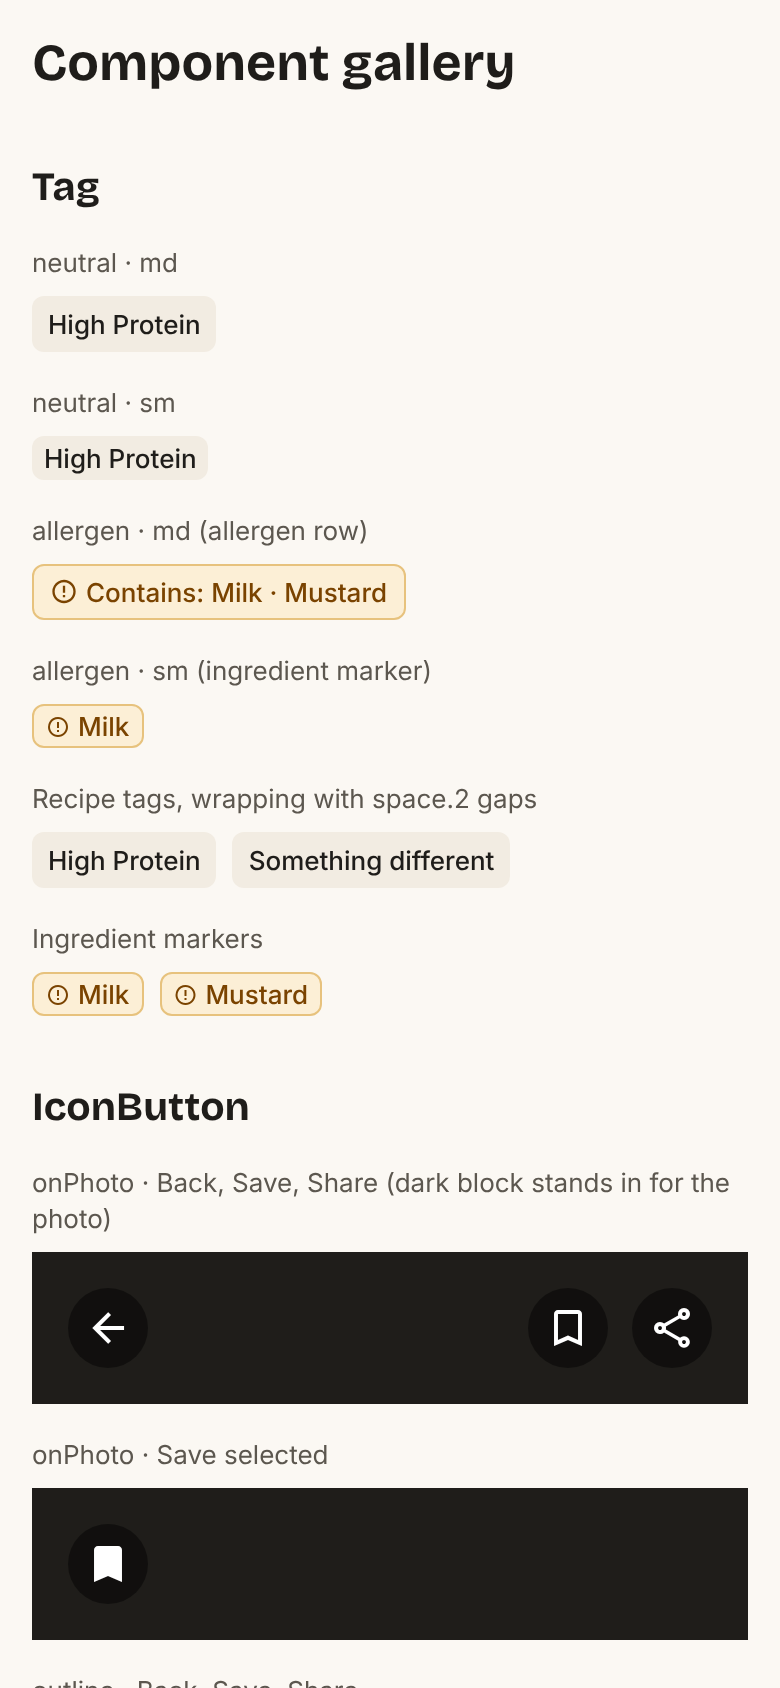
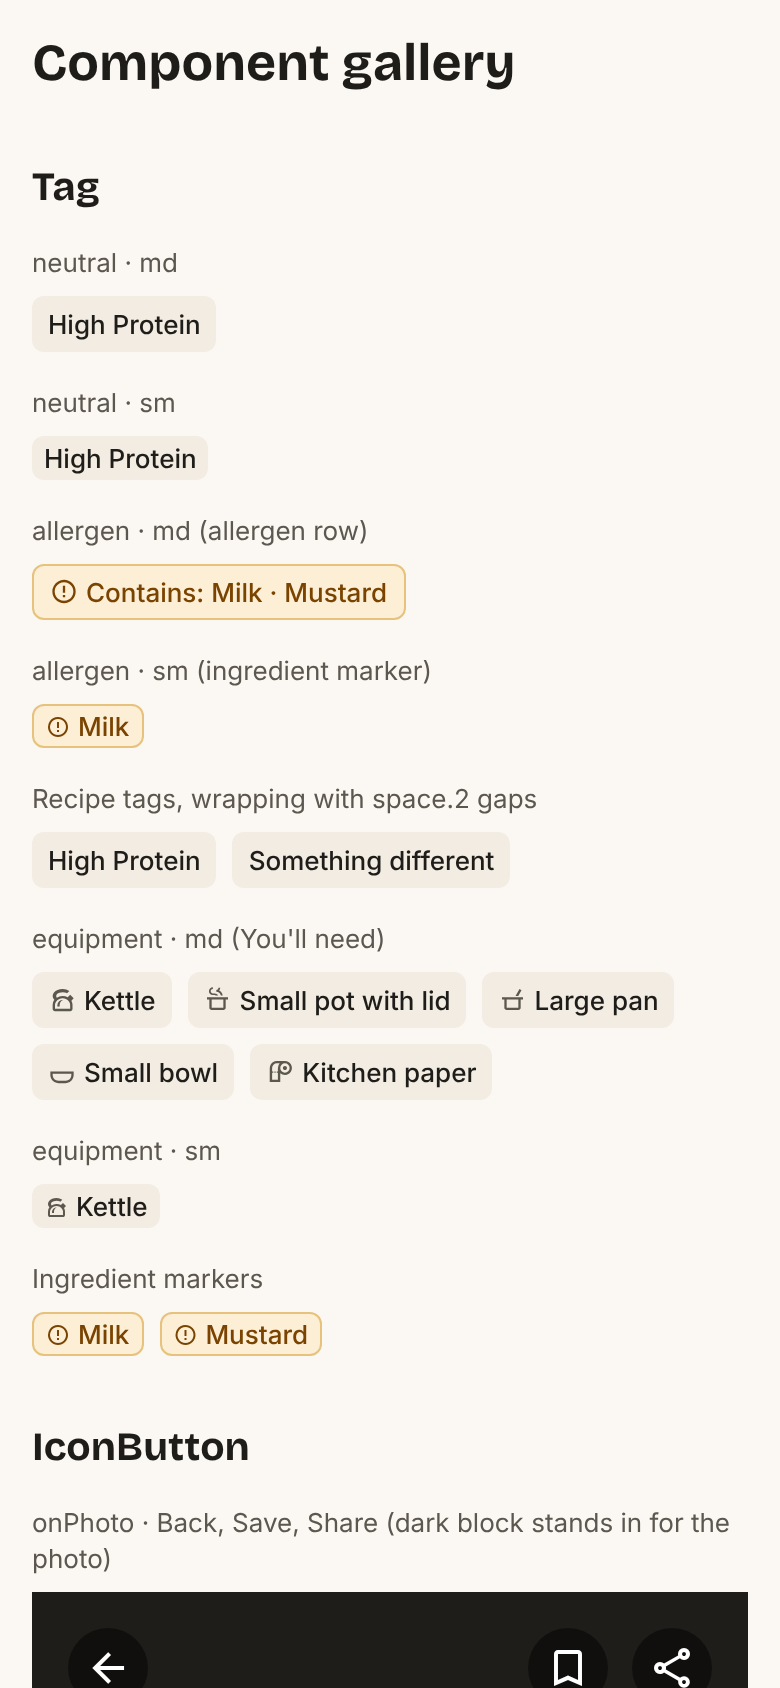
Show You'll need as equipment chips (option A)
New Tag variant 'equipment' (subtle fill, per-item icon, Tag md size)
in a wrapping row: 138 pt instead of 342 pt. Equipment icon names moved
to src/theme/icons.ts; Tag.md and IngredientRow.md specs, decisions and
screenshots updated.

Claude-Session: https://claude.ai/code/session_01Nt62VDTQhttFTqkyUPVqAi

diff --git a/src/components/Tag.tsx b/src/components/Tag.tsx
@@ -1,8 +1,9 @@
 import { StyleSheet, Text, View } from 'react-native';
 import { MaterialCommunityIcons } from '@expo/vector-icons';
 import { color, radius, size, space, type } from '../theme/tokens';
+import { EQUIPMENT_ICONS, type EquipmentIcon } from '../theme/icons';
 
-export type TagVariant = 'neutral' | 'allergen';
+export type TagVariant = 'neutral' | 'allergen' | 'equipment';
 export type TagSize = 'md' | 'sm';
 
 export type TagProps = {
@@ -11,6 +12,8 @@ export type TagProps = {
   variant?: TagVariant;
   /** `sm` is for inline use inside an IngredientRow. */
   size?: TagSize;
+  /** Only for `equipment`: which line icon to show. */
+  icon?: EquipmentIcon;
   /**
    * What screen readers say. Defaults to the label; an allergen row label
    * "Contains: Milk · Mustard" is read as "Contains allergens: Milk, Mustard".
@@ -33,11 +36,18 @@ function defaultAccessibilityLabel(label: string, variant: TagVariant): string {
 }
 
 /**
- * A small, non-interactive label: a recipe tag ("High Protein") or an allergen
- * flag ("Contains: Milk · Mustard"). Tags inform; they are not buttons.
+ * A small, non-interactive label: a recipe tag ("High Protein"), an allergen
+ * flag ("Contains: Milk · Mustard") or a piece of equipment ("Kettle"). Tags inform; they are not buttons.
  */
-export function Tag({ label, variant = 'neutral', size: tagSize = 'md', accessibilityLabel }: TagProps) {
+export function Tag({
+  label,
+  variant = 'neutral',
+  size: tagSize = 'md',
+  icon = 'pot',
+  accessibilityLabel,
+}: TagProps) {
   const isAllergen = variant === 'allergen';
+  const iconSize = tagSize === 'md' ? size.icon.tagMd : size.icon.tagSm;
 
   return (
     <View
@@ -46,13 +56,15 @@ export function Tag({ label, variant = 'neutral', size: tagSize = 'md', accessib
       accessibilityLabel={accessibilityLabel ?? defaultAccessibilityLabel(label, variant)}
       style={[styles.base, sizeStyles[tagSize], variantStyles[variant]]}
     >
+      {/* Icons are decorative: the text already says it. */}
       {isAllergen && (
         <View accessibilityElementsHidden importantForAccessibility="no-hide-descendants">
-          <MaterialCommunityIcons
-            name="alert-circle-outline"
-            size={tagSize === 'md' ? size.icon.tagMd : size.icon.tagSm}
-            color={color.allergen.fg}
-          />
+          <MaterialCommunityIcons name="alert-circle-outline" size={iconSize} color={color.allergen.fg} />
+        </View>
+      )}
+      {variant === 'equipment' && (
+        <View accessibilityElementsHidden importantForAccessibility="no-hide-descendants">
+          <MaterialCommunityIcons name={EQUIPMENT_ICONS[icon]} size={iconSize} color={color.text.secondary} />
         </View>
       )}
       <Text style={[styles.label, { color: isAllergen ? color.allergen.fg : color.text.primary }]}>
@@ -85,6 +97,7 @@ const sizeStyles = StyleSheet.create({
 
 const variantStyles = StyleSheet.create({
   neutral: { backgroundColor: color.bg.subtle },
+  equipment: { backgroundColor: color.bg.subtle },
   allergen: {
     backgroundColor: color.allergen.bg,
     borderWidth: 1,

diff --git a/app/gallery.tsx b/app/gallery.tsx
@@ -8,6 +8,7 @@ import { SectionHeader } from '../src/components/SectionHeader';
 import { ServingStepper } from '../src/components/ServingStepper';
 import { StickyCTA } from '../src/components/StickyCTA';
 import { Tag } from '../src/components/Tag';
+import { recipe } from '../src/data/recipe';
 import { color, space, type } from '../src/theme/tokens';
 
 const noop = () => {};
@@ -54,7 +55,17 @@ export default function Gallery() {
             <Tag label="Something different" />
           </View>
         </Example>
-        <Example name="Ingredient markers">
+        <Example name="equipment · md (You'll need)">
+          <View style={{ flexDirection: 'row', flexWrap: 'wrap', gap: space[2] }}>
+            {recipe.equipment.map((item) => (
+              <Tag key={item.name} variant="equipment" label={item.name} icon={item.icon} />
+            ))}
+          </View>
+        </Example>
+        <Example name="equipment · sm">
+          <Tag variant="equipment" label="Kettle" icon="kettle" size="sm" />
+        </Example>
+                <Example name="Ingredient markers">
           <View style={{ flexDirection: 'row', flexWrap: 'wrap', gap: space[2] }}>
             <Tag label="Milk" variant="allergen" size="sm" />
             <Tag label="Mustard" variant="allergen" size="sm" />

diff --git a/src/components/IngredientRow.tsx b/src/components/IngredientRow.tsx
@@ -2,19 +2,11 @@ import { Image, StyleSheet, Text, View, type ImageSourcePropType } from 'react-n
 import { MaterialCommunityIcons } from '@expo/vector-icons';
 import { color, radius, size, space, type } from '../theme/tokens';
 import { Tag } from './Tag';
+import { EQUIPMENT_ICONS, type EquipmentIcon } from '../theme/icons';
+
+export type { EquipmentIcon };
 
 export type IngredientRowVariant = 'box' | 'pantry' | 'equipment';
-export type EquipmentIcon = 'kettle' | 'pot' | 'pan' | 'bowl' | 'paper';
-
-// One icon set only (CLAUDE.md): MaterialCommunityIcons, outline style.
-// The set has no frying pan; pot-mix-outline (shallow pan with spatula) is the closest.
-const EQUIPMENT_ICONS = {
-  kettle: 'kettle-outline',
-  pot: 'pot-steam-outline',
-  pan: 'pot-mix-outline',
-  bowl: 'bowl-outline',
-  paper: 'paper-roll-outline',
-} as const;
 
 export type IngredientRowProps = {
   /** From docs/content.md. */

diff --git a/app/index.tsx b/app/index.tsx
@@ -135,9 +135,9 @@ export default function RecipeScreen() {
 
           {/* You'll need */}
           <SectionHeader title="You'll need" />
-          <View style={{ gap: space[3] }}>
+          <View style={{ flexDirection: 'row', flexWrap: 'wrap', gap: space[2] }}>
             {recipe.equipment.map((item) => (
-              <IngredientRow key={item.name} variant="equipment" name={item.name} icon={item.icon} />
+              <Tag key={item.name} variant="equipment" label={item.name} icon={item.icon} />
             ))}
           </View>
 

diff --git a/src/theme/icons.ts b/src/theme/icons.ts
@@ -1,0 +1,14 @@
+/**
+ * Icon names shared by several components. One icon set only (CLAUDE.md):
+ * MaterialCommunityIcons, outline style.
+ */
+export type EquipmentIcon = 'kettle' | 'pot' | 'pan' | 'bowl' | 'paper';
+
+// The set has no frying pan; pot-mix-outline (shallow pan with spatula) is the closest.
+export const EQUIPMENT_ICONS = {
+  kettle: 'kettle-outline',
+  pot: 'pot-steam-outline',
+  pan: 'pot-mix-outline',
+  bowl: 'bowl-outline',
+  paper: 'paper-roll-outline',
+} as const satisfies Record<EquipmentIcon, string>;

diff --git a/src/data/recipe.ts b/src/data/recipe.ts
@@ -20,7 +20,7 @@ export type Ingredient = {
   allergen?: string;
 };
 
-import type { EquipmentIcon } from '../components/IngredientRow';
+import type { EquipmentIcon } from '../theme/icons';
 
 export type Equipment = { name: string; icon: EquipmentIcon };
 

diff --git a/design-system/components/Tag.md b/design-system/components/Tag.md
@@ -1,8 +1,8 @@
 # Tag
 
 ## Purpose
-A small, non-interactive label that describes the recipe ("High Protein") or flags an allergen
-("Contains: Milk · Mustard"). Tags inform; they are not buttons.
+A small, non-interactive label that describes the recipe ("High Protein"), flags an allergen
+("Contains: Milk · Mustard") or names a piece of equipment ("Kettle"). Tags inform; they are not buttons.
 
 ## Anatomy
 1. Container (fill, optional border)
@@ -13,13 +13,15 @@ A small, non-interactive label that describes the recipe ("High Protein") or fla
 | Prop | Type | Default | Notes |
 |---|---|---|---|
 | `label` | text | — | Required. Short: 1–3 words, or "Contains: …" for allergens. |
-| `variant` | `neutral` \| `allergen` | `neutral` | See Variants. |
+| `variant` | `neutral` \| `allergen` \| `equipment` | `neutral` | See Variants. |
 | `size` | `md` \| `sm` | `md` | `sm` is for inline use inside an IngredientRow. |
+| `icon` | `kettle` \| `pot` \| `pan` \| `bowl` \| `paper` | `pot` | Only for `equipment`. Mapping in CLAUDE.md. |
 
 ## Variants
 | Variant | Look | Use |
 |---|---|---|
 | `neutral` | `color.bg.subtle` fill, `color.text.primary` text, no icon | Recipe tags under the title. |
+| `equipment` | `color.bg.subtle` fill, `color.text.primary` text, leading equipment icon in `color.text.secondary` | The "You'll need" list, as a wrapping row of chips (added 2026-10-16, see docs/decisions.md). |
 | `allergen` | `color.allergen.bg` fill, 1 pt `color.allergen.border`, `color.allergen.fg` text, **warning icon** (leading) | The allergen row under the title ("Contains: Milk · Mustard") and the small marker on an ingredient ("Milk"). |
 
 ## Sizes
@@ -39,7 +41,8 @@ Static only (no pressed or focus state), because tags are not interactive.
 - Allergen tags never rely on colour alone: they always have the icon **and** the word "Contains"
   (row) or the allergen name (marker).
 - Screen readers read the allergen row as "Contains allergens: Milk, Mustard".
-- The icon is decorative (`accessibilityElementsHidden`) because the text already says it.
+- Icons are decorative (`accessibilityElementsHidden`) because the text already says it.
+- Equipment tags read as their name ("Kettle").
 
 ## Do
 - Keep labels short; wrap tags onto a second line with `space.2` gaps.

diff --git a/docs/decisions.md b/docs/decisions.md
@@ -29,3 +29,5 @@ Decisions that aren't in the specs, with the reason. Newest at the bottom.
 | 2026-10-16 | Hero photo height `size.image.hero` 280 → 200. | Gets the ingredients closer to the first screen (analysis friction point #1). |
 | 2026-10-16 | "About this recipe" moved from above Ingredients to below "You'll need" (changes the CLAUDE.md screen order). | The description is the least-used block while cooking; above Ingredients it pushed them down and left an uneven 48 pt gap. |
 | 2026-10-16 | Each equipment item has its own icon: kettle `kettle-outline`, pot `pot-steam-outline`, pan `pot-mix-outline`, bowl `bowl-outline`, kitchen paper `paper-roll-outline`. `IngredientRow` gets an `icon` prop for the `equipment` variant; CLAUDE.md icon mapping updated. | Five identical pots were hard to scan; people look for the specific item. The set has no frying pan (its `pan` icon is the move gesture), so the pan uses `pot-mix-outline`, a shallow pan with a spatula. |
+| 2026-10-16 | "You'll need" shows equipment as small chips: new `Tag` variant `equipment` (subtle fill, equipment icon in `color.text.secondary`, Tag md size) in a wrapping row with `space.2` gaps. Tag.md updated. The `IngredientRow` `equipment` variant stays but the screen no longer uses it. | Chosen from a mockup (option A): 138 pt instead of 342 pt for the same five items. Trade-off: 13 pt text is smaller than the ingredient names. |
+| 2026-10-16 | Equipment icon names live in `src/theme/icons.ts`. | Tag and IngredientRow both use them; one place to change. |

diff --git a/design-system/components/IngredientRow.md b/design-system/components/IngredientRow.md
@@ -2,6 +2,8 @@
 
 ## Purpose
 One line in the ingredient lists ("In your box", "From your pantry") or in "You'll need".
+(Since 2026-10-16 the screen shows "You'll need" as `Tag variant="equipment"` chips; the `equipment` row
+variant stays available, see docs/decisions.md.)
 Built for scanning while unpacking a box or cooking: name first, amount right under it.
 
 ## Anatomy
